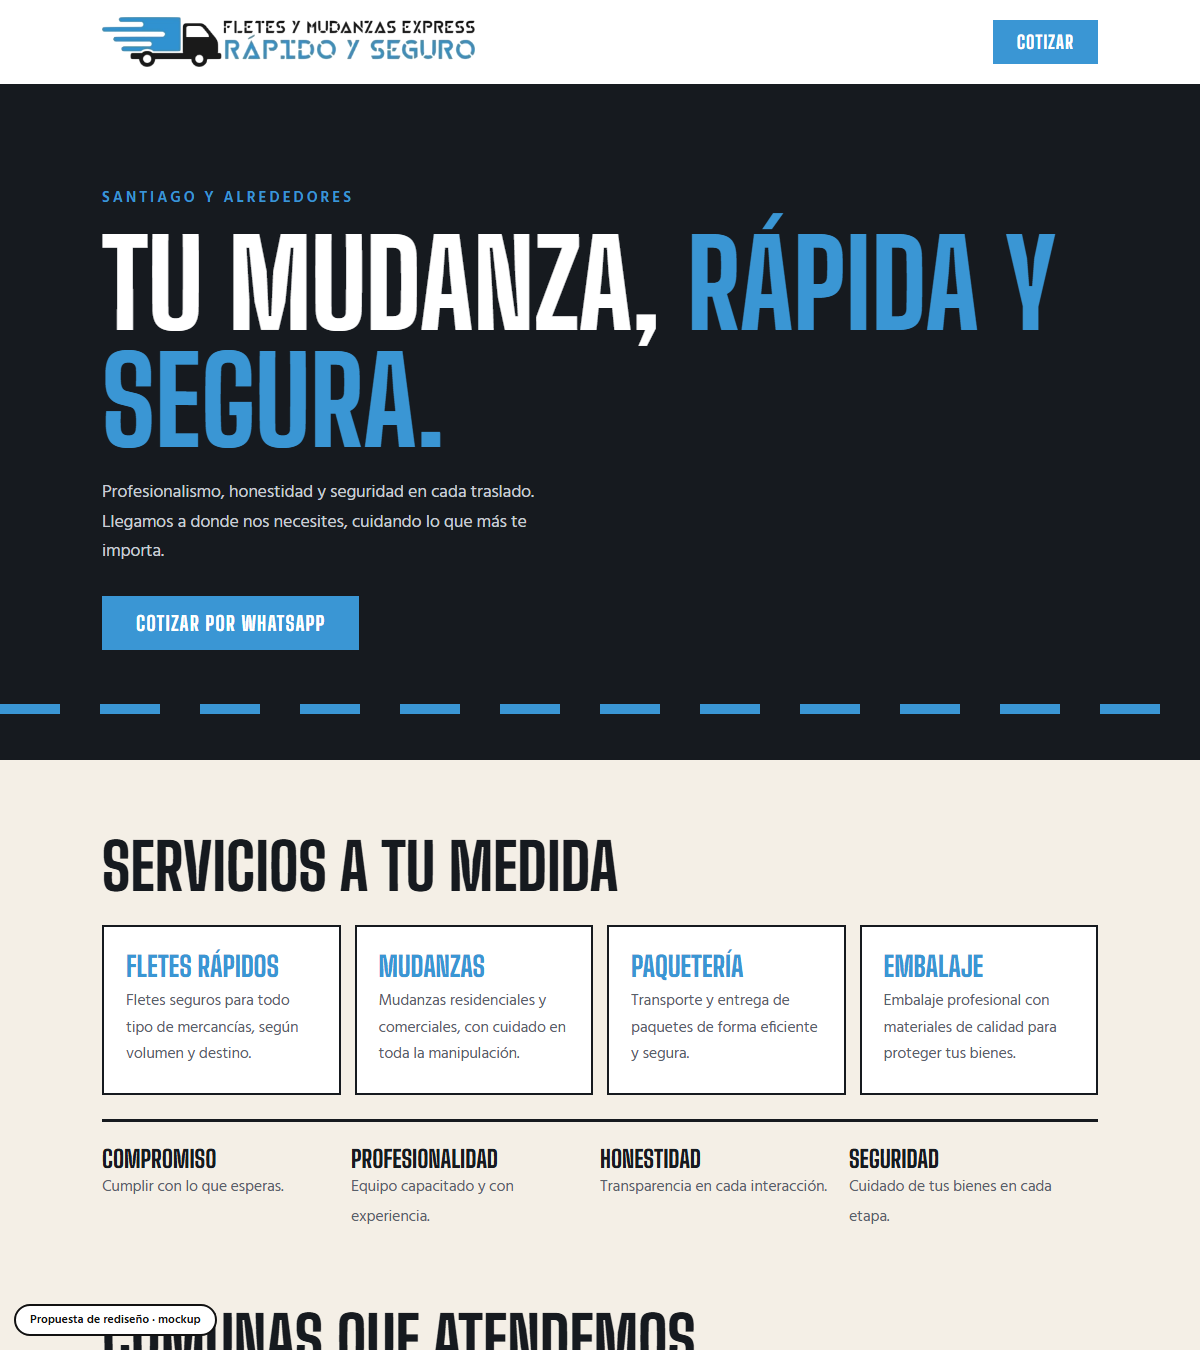
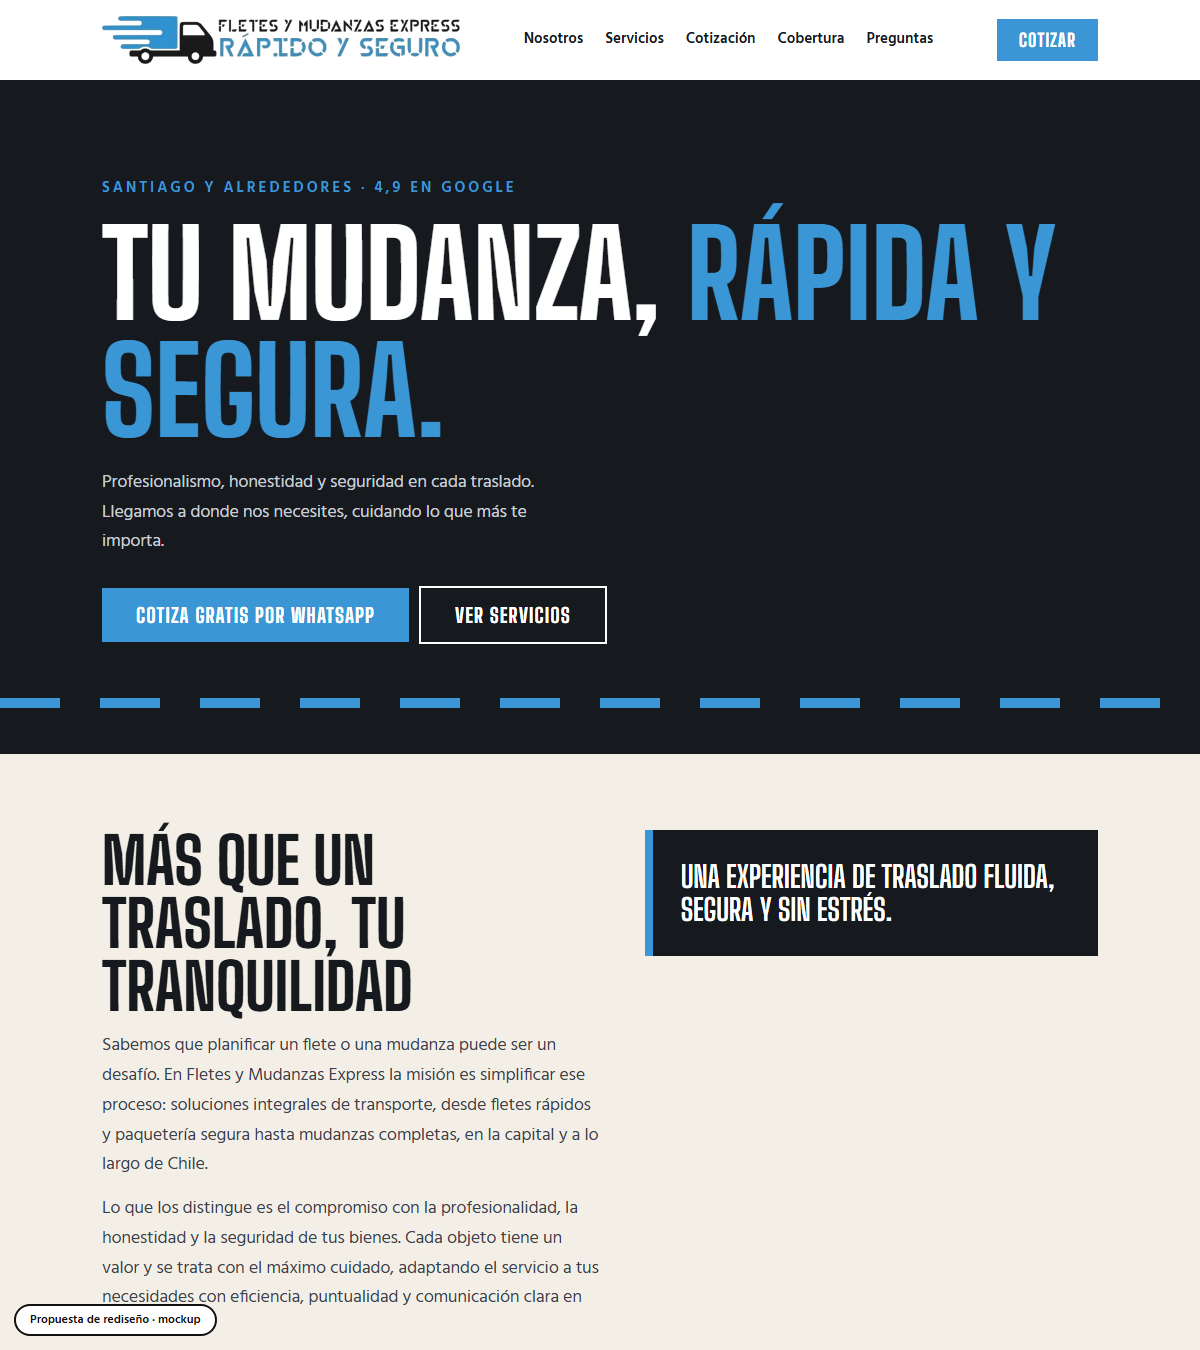
Mockup: fletes-y-mudanzas-express-independencia

diff --git a/fletes-y-mudanzas-express-independencia/index.html b/fletes-y-mudanzas-express-independencia/index.html
@@ -6,45 +6,62 @@
 <link href="https://fonts.googleapis.com/css2?family=Big+Shoulders+Display:wght@700;800;900&family=Hind:wght@400;500;600&display=swap" rel="stylesheet">
 <style>
 :root{--blue:#3a96d4;--ink:#161a1f;--sand:#f4efe6;--line:#ddd5c4;--mute:#58606a}
-*{box-sizing:border-box;margin:0}html{scroll-behavior:smooth}
+*{box-sizing:border-box;margin:0}html{scroll-behavior:smooth;scroll-padding-top:90px}
 @media(prefers-reduced-motion:reduce){html{scroll-behavior:auto}}
 body{background:var(--sand);color:var(--ink);font:400 17.5px/1.7 Hind,sans-serif}
 .wrap{max-width:1040px;margin:0 auto;padding:0 22px}
 h1,h2,h3{font-family:'Big Shoulders Display',sans-serif;line-height:.98;text-transform:uppercase;font-weight:800}
-header{background:#fff;border-bottom:4px solid var(--ink)}header .wrap{display:flex;justify-content:space-between;align-items:center;height:84px;gap:12px}
-header img{height:50px;max-width:62vw;object-fit:contain}
-header a.b{background:var(--blue);color:#fff;text-decoration:none;padding:11px 24px;font:800 18px 'Big Shoulders Display';letter-spacing:.06em;text-transform:uppercase}
+header{background:#fff;border-bottom:4px solid var(--ink);position:sticky;top:0;z-index:20}header .wrap{display:flex;justify-content:space-between;align-items:center;height:80px;gap:14px}
+header img{height:48px;max-width:46vw;object-fit:contain}
+nav{display:flex;gap:22px;font-weight:600;font-size:15px}nav a{color:var(--ink);text-decoration:none}nav a:hover{color:var(--blue)}
+header a.b{background:var(--blue);color:#fff;text-decoration:none;padding:10px 22px;font:800 18px 'Big Shoulders Display';letter-spacing:.06em;text-transform:uppercase;white-space:nowrap}
 header a.b:hover{background:var(--ink)}
 .hero{background:var(--ink);color:#fff;position:relative;overflow:hidden}
 .hero:before{content:"";position:absolute;left:0;right:0;bottom:46px;height:10px;background:repeating-linear-gradient(90deg,var(--blue) 0 60px,transparent 60px 100px)}
-.hero .wrap{padding:96px 22px 110px;position:relative}
+.hero .wrap{padding:90px 22px 110px;position:relative}
 .hero small{font:700 15px Hind;letter-spacing:.2em;text-transform:uppercase;color:var(--blue)}
 .hero h1{font-size:clamp(54px,10vw,130px);margin:12px 0 18px}.hero h1 span{color:var(--blue)}
 .hero p{max-width:50ch;margin-bottom:28px;color:#c9ced6}
-.btn{display:inline-block;background:var(--blue);color:#fff;padding:15px 34px;font:800 20px 'Big Shoulders Display';letter-spacing:.06em;text-transform:uppercase;text-decoration:none}
+.btn{display:inline-block;background:var(--blue);color:#fff;padding:15px 34px;font:800 20px 'Big Shoulders Display';letter-spacing:.06em;text-transform:uppercase;text-decoration:none;margin-right:10px}
+.btn.o{background:transparent;border:2px solid #fff}
 .btn:hover,.btn:focus-visible{background:#fff;color:var(--ink)}
 section{padding:76px 0}h2{font-size:clamp(36px,5.4vw,64px);margin-bottom:14px}
+.two{display:grid;grid-template-columns:1.1fr 1fr;gap:44px;align-items:start}
+.two p{margin-bottom:14px;color:#3a424c}
+.quote{background:var(--ink);color:#fff;padding:30px 28px;border-left:8px solid var(--blue);font:700 30px/1.1 'Big Shoulders Display';text-transform:uppercase}
 .g4{display:grid;grid-template-columns:repeat(4,1fr);gap:14px;margin-top:26px}
 .g4 div{background:#fff;border:2px solid var(--ink);padding:26px 22px}.g4 h3{font-size:28px;margin-bottom:8px;color:var(--blue)}.g4 p{font-size:15.5px;color:var(--mute)}
-.why{display:grid;grid-template-columns:repeat(4,1fr);gap:0;border-top:3px solid var(--ink);margin-top:24px}
-.why div{padding:22px 20px 0 0}.why b{font:800 24px 'Big Shoulders Display';text-transform:uppercase;display:block}.why span{font-size:15.5px;color:var(--mute)}
+.steps{counter-reset:s;display:grid;grid-template-columns:repeat(4,1fr);gap:0;border-top:3px solid var(--ink);margin-top:26px}
+.steps div{padding:22px 20px 0 0}.steps div:before{counter-increment:s;content:counter(s);display:block;font:900 54px/1 'Big Shoulders Display';color:var(--blue)}.steps b{font:800 22px 'Big Shoulders Display';text-transform:uppercase;display:block}.steps span{font-size:15.5px;color:var(--mute)}
+.why{background:#fff;border-top:3px solid var(--ink);border-bottom:3px solid var(--ink)}
+.why .g{display:grid;grid-template-columns:repeat(4,1fr);gap:18px;margin-top:20px}.why b{font:800 26px 'Big Shoulders Display';text-transform:uppercase;display:block}.why span{font-size:15.5px;color:var(--mute)}
 .zones{display:flex;flex-wrap:wrap;gap:8px;margin-top:18px}.zones span{border:2px solid var(--ink);padding:3px 14px;font-weight:600;font-size:15px;background:#fff}
+details{background:#fff;border:2px solid var(--ink);margin-top:10px}summary{cursor:pointer;padding:16px 22px;font:800 22px 'Big Shoulders Display';text-transform:uppercase;list-style:none;display:flex;justify-content:space-between;gap:12px}
+summary::-webkit-details-marker{display:none}summary:after{content:"+";color:var(--blue);font-size:28px;line-height:1}details[open] summary:after{content:"–"}details p{padding:0 22px 18px;color:#3a424c}
 .contact{background:var(--blue);color:#fff;text-align:center}.contact h2{color:#fff}
 .contact a.l{display:block;font:900 clamp(44px,8vw,96px) 'Big Shoulders Display';color:#fff;text-decoration:none;margin:6px 0}.contact a.l:hover{color:var(--ink)}
 footer{padding:22px 0 90px;text-align:center;font-size:13px;color:var(--mute)}
-.mock{position:fixed;left:14px;bottom:14px;background:#fff;color:#111;border:2px solid #111;font:600 12px/1 Hind;padding:8px 14px;border-radius:30px;z-index:9}
-@media(max-width:860px){.g4,.why{grid-template-columns:1fr 1fr}.hero .wrap{padding:56px 22px 90px}}
-@media(max-width:520px){.g4,.why{grid-template-columns:1fr}}
+.mock{position:fixed;left:14px;bottom:14px;background:#fff;color:#111;border:2px solid #111;font:600 12px/1 Hind;padding:8px 14px;border-radius:30px;z-index:30}
+@media(max-width:900px){nav{display:none}.g4,.steps,.why .g{grid-template-columns:1fr 1fr}.two{grid-template-columns:1fr}.hero .wrap{padding:56px 22px 90px}}
+@media(max-width:520px){.g4,.steps,.why .g{grid-template-columns:1fr}.btn{margin-bottom:10px}}
 </style></head><body>
-<header><div class="wrap"><img src="assets/logo.png" alt="Fletes y Mudanzas Express, rápido y seguro"><a class="b" href="https://wa.me/56982746894?text=Hola%2C%20quisiera%20cotizar%20un%20flete">Cotizar</a></div></header>
-<div class="hero"><div class="wrap"><small>Santiago y alrededores</small><h1>Tu mudanza, <span>rápida y segura.</span></h1><p>Profesionalismo, honestidad y seguridad en cada traslado. Llegamos a donde nos necesites, cuidando lo que más te importa.</p><a class="btn" href="https://wa.me/56982746894?text=Hola%2C%20quisiera%20cotizar%20una%20mudanza">Cotizar por WhatsApp</a></div></div>
-<section><div class="wrap"><h2>Servicios a tu medida</h2><div class="g4">
-<div><h3>Fletes rápidos</h3><p>Fletes seguros para todo tipo de mercancías, según volumen y destino.</p></div>
-<div><h3>Mudanzas</h3><p>Mudanzas residenciales y comerciales, con cuidado en toda la manipulación.</p></div>
-<div><h3>Paquetería</h3><p>Transporte y entrega de paquetes de forma eficiente y segura.</p></div>
-<div><h3>Embalaje</h3><p>Embalaje profesional con materiales de calidad para proteger tus bienes.</p></div></div>
-<div class="why"><div><b>Compromiso</b><span>Cumplir con lo que esperas.</span></div><div><b>Profesionalidad</b><span>Equipo capacitado y con experiencia.</span></div><div><b>Honestidad</b><span>Transparencia en cada interacción.</span></div><div><b>Seguridad</b><span>Cuidado de tus bienes en cada etapa.</span></div></div></div></section>
-<section style="padding-top:0"><div class="wrap"><h2>Comunas que atendemos</h2><div class="zones"><span>Santiago Centro</span><span>Providencia</span><span>Las Condes</span><span>Vitacura</span><span>Lo Barnechea</span><span>Ñuñoa</span><span>La Reina</span><span>Macul</span><span>Peñalolén</span><span>La Florida</span><span>San Miguel</span><span>San Joaquín</span><span>Estación Central</span><span>Maipú</span><span>Pudahuel</span><span>Quilicura</span><span>Huechuraba</span><span>Colina</span><span>Chicureo</span></div><p style="margin-top:16px;color:var(--mute)">¿Tu comuna no aparece, o necesitas otra región? Consúltanos.</p></div></section>
-<section class="contact" id="contacto"><div class="wrap"><h2>Pide tu cotización gratis</h2><a class="l" href="https://wa.me/56982746894">+56 9 8274 6894</a><p>Colón 1450, Independencia<br><a style="color:#fff" href="mailto:fletesymudanzasexpress1@gmail.com">fletesymudanzasexpress1@gmail.com</a></p></div></section>
+<header><div class="wrap"><img src="assets/logo.png" alt="Fletes y Mudanzas Express, rápido y seguro"><nav><a href="#nosotros">Nosotros</a><a href="#servicios">Servicios</a><a href="#cotizacion">Cotización</a><a href="#cobertura">Cobertura</a><a href="#faq">Preguntas</a></nav><a class="b" href="https://wa.me/56982746894?text=Hola%2C%20quisiera%20cotizar%20un%20flete">Cotizar</a></div></header>
+<div class="hero"><div class="wrap"><small>Santiago y alrededores · 4,9 en Google</small><h1>Tu mudanza, <span>rápida y segura.</span></h1><p>Profesionalismo, honestidad y seguridad en cada traslado. Llegamos a donde nos necesites, cuidando lo que más te importa.</p><a class="btn" href="https://wa.me/56982746894?text=Hola%2C%20quisiera%20cotizar%20una%20mudanza">Cotiza gratis por WhatsApp</a><a class="btn o" href="#servicios">Ver servicios</a></div></div>
+<section id="nosotros"><div class="wrap two"><div><h2>Más que un traslado, tu tranquilidad</h2><p>Sabemos que planificar un flete o una mudanza puede ser un desafío. En Fletes y Mudanzas Express la misión es simplificar ese proceso: soluciones integrales de transporte, desde fletes rápidos y paquetería segura hasta mudanzas completas, en la capital y a lo largo de Chile.</p><p>Lo que los distingue es el compromiso con la profesionalidad, la honestidad y la seguridad de tus bienes. Cada objeto tiene un valor y se trata con el máximo cuidado, adaptando el servicio a tus necesidades con eficiencia, puntualidad y comunicación clara en cada paso.</p></div><div class="quote">Una experiencia de traslado fluida, segura y sin estrés.</div></div></section>
+<section id="servicios" style="padding-top:0"><div class="wrap"><h2>Servicios a tu medida</h2><div class="g4">
+<div><h3>Fletes rápidos</h3><p>Servicios de fletes rápidos y seguros para todo tipo de mercancías, adaptándonos a tus necesidades de volumen y destino.</p></div>
+<div><h3>Mudanzas integrales</h3><p>Mudanzas residenciales y comerciales, con el cuidado y la correcta manipulación de tus pertenencias durante todo el proceso.</p></div>
+<div><h3>Transporte y paquetería</h3><p>Entrega de paquetes de forma eficiente y segura, con seguimiento, para que lleguen a tiempo.</p></div>
+<div><h3>Embalaje profesional</h3><p>Materiales de calidad (cajas de distintos tamaños, plástico burbuja, film stretch) para proteger tus bienes, en especial los frágiles.</p></div></div></div></section>
+<section id="cotizacion" class="why"><div class="wrap"><h2>Cómo se calcula tu cotización</h2><p style="max-width:62ch;color:var(--mute)">Una cotización detallada y transparente, que depende de estos factores:</p><div class="steps"><div><b>Volumen</b><span>Cantidad de bienes a trasladar.</span></div><div><b>Distancia</b><span>Entre el origen y el destino.</span></div><div><b>Pisos</b><span>Escaleras o uso de ascensor.</span></div><div><b>Extras y fecha</b><span>Embalaje o desembalaje, y fecha y hora del servicio.</span></div></div></div></section>
+<section><div class="wrap"><h2>Por qué elegirnos</h2><div class="why" style="border:0;background:transparent"><div class="g"><div><b>Compromiso</b><span>Cumplir tus expectativas y asegurar un servicio excepcional.</span></div><div><b>Profesionalidad</b><span>Equipo capacitado y con experiencia para cada tarea.</span></div><div><b>Honestidad</b><span>Transparencia y rectitud en cada interacción.</span></div><div><b>Seguridad</b><span>Priorizamos tus bienes en cada etapa del traslado.</span></div></div></div>
+<p style="margin-top:26px;max-width:62ch;color:var(--mute)">Flota variada de camiones cerrados: desde tamaños pequeños para fletes express hasta camiones grandes para mudanzas completas.</p></div></section>
+<section id="cobertura" style="padding-top:0"><div class="wrap"><h2>Cobertura en la Región Metropolitana</h2><div class="zones"><span>Santiago Centro</span><span>Providencia</span><span>Las Condes</span><span>Vitacura</span><span>Lo Barnechea</span><span>Ñuñoa</span><span>La Reina</span><span>Macul</span><span>Peñalolén</span><span>La Florida</span><span>San Miguel</span><span>San Joaquín</span><span>Estación Central</span><span>Maipú</span><span>Pudahuel</span><span>Quilicura</span><span>Huechuraba</span><span>Colina</span><span>Chicureo</span></div><p style="margin-top:16px;color:var(--mute)">¿Tu comuna no aparece, o necesitas otra región? Consúltanos. También hacen mudanzas hacia regiones cercanas seleccionadas.</p></div></section>
+<section id="faq" style="padding-top:0"><div class="wrap"><h2>Preguntas frecuentes</h2>
+<details><summary>¿Realizan mudanzas a todas las regiones de Chile?</summary><p>Se especializan en fletes y mudanzas dentro de la Región Metropolitana y hacia regiones cercanas seleccionadas. Contáctalos para confirmar la cobertura de tu destino y recibir una cotización precisa.</p></details>
+<details><summary>¿Cómo calculan el costo de una mudanza o flete?</summary><p>Según el volumen de bienes, la distancia entre origen y destino, los pisos involucrados (escaleras o ascensor), servicios adicionales como embalaje y desembalaje, y la fecha y hora del servicio.</p></details>
+<details><summary>¿Ofrecen servicio de embalaje?</summary><p>Sí. Usan materiales de alta calidad, como cajas de distintos tamaños, plástico burbuja y film stretch, para proteger tus pertenencias, especialmente los objetos frágiles.</p></details>
+<details><summary>¿Qué tipo de camiones utilizan?</summary><p>Una flota variada de camiones cerrados, desde los más pequeños para fletes express hasta los más grandes para mudanzas completas.</p></details></div></section>
+<section class="contact" id="contacto"><div class="wrap"><h2>Pide tu cotización gratis</h2><a class="l" href="https://wa.me/56982746894">+56 9 8274 6894</a><p>Colón 1450, Independencia<br><a style="color:#fff" href="mailto:fletesymudanzasexpress1@gmail.com">fletesymudanzasexpress1@gmail.com</a> · Instagram, Facebook y TikTok</p></div></section>
 <footer>FLETES Y MUDANZAS EXPRESS · SANTIAGO</footer>
 <div class="mock">Propuesta de rediseño · mockup</div></body></html>
